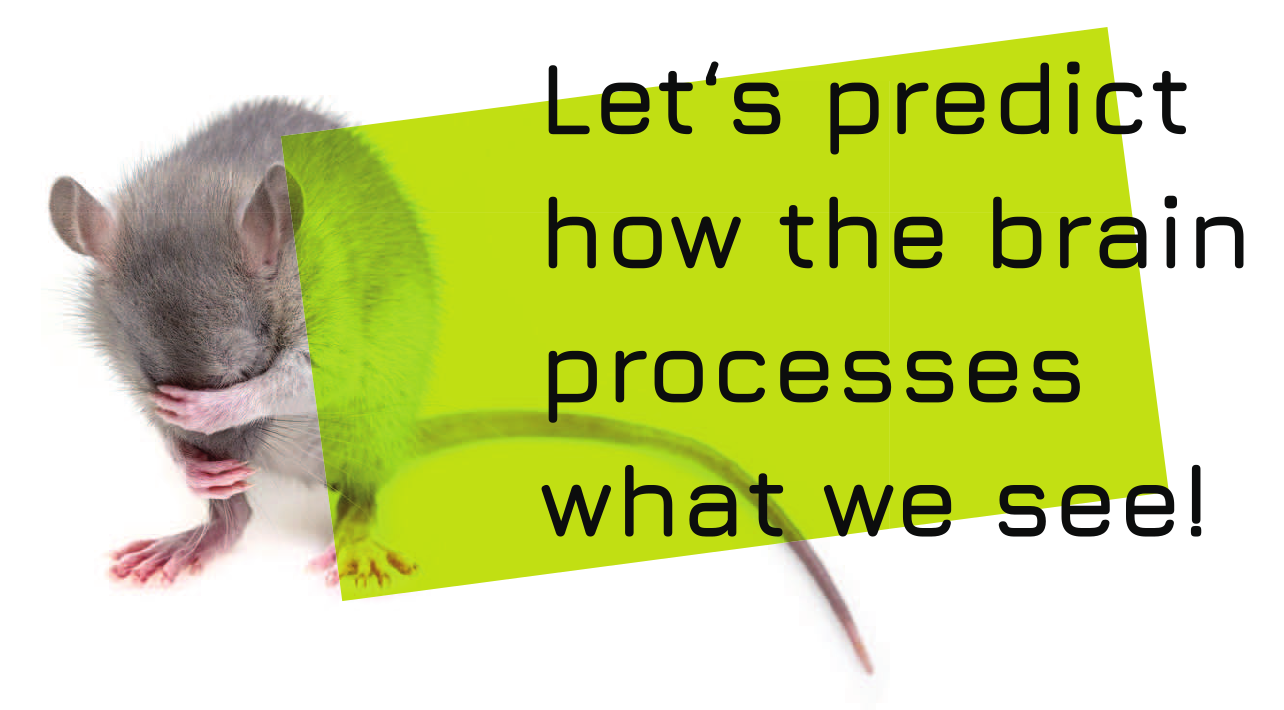
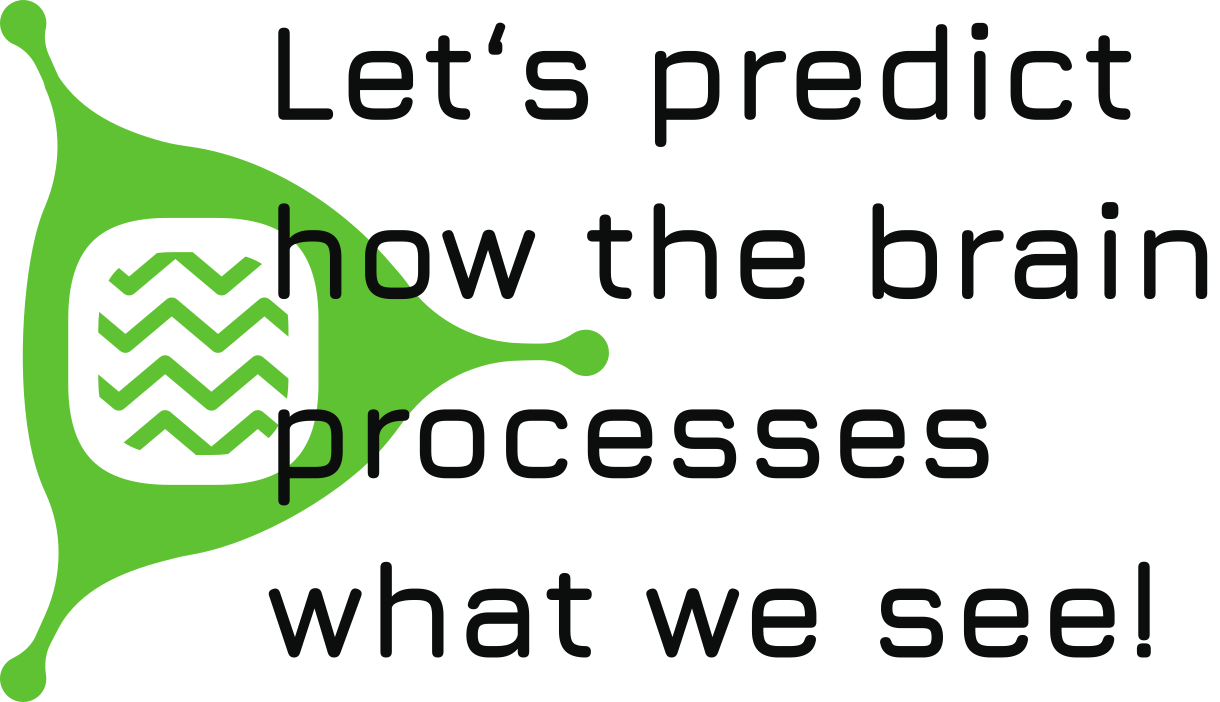
general look and structure of Bärbel's draft

diff --git a/src/templates/pages/home.html b/src/templates/pages/home.html
@@ -5,42 +5,28 @@
 
 {% block content %}
 
-    <!-- Annoucement  -->
-    {% if announcement %}
-    <div style="margin:auto;" class="segment-container ui segment full-width">
-        <div class="ui header">
-            <p>Announcement</p>
-        </div>
-        <div class="container-content">
-            <div class="center aligned column">
-                {{ announcement | safe }}
+    <div class="home-wrap ui grid">
+        <div class="row">
+            <div class="sixteen wide column">
+                <img src="{% static 'img/home_banner.png' %}" alt="Let's predict how the brain processes what we see!"/>
             </div>
         </div>
-    </div>
-    {% endif %}
-
-    <div class="home-wrap">
-        <!-- <front-page-competitions class="segment-container"></front-page-competitions> -->
-         <img src="{% static 'img/home_banner.png' %}" alt="Let's predict how the brain processes what we see!"/>
 
         <!-- Stats section -->
-        <div class="ui three column grid" id="general-stats">
-            <!-- Public Competitions -->
-            <div class="column">
+        <div class="row" id="general-stats">
+            <div class="five wide column">
                 <div class="ui statistic">
                     <div class="value">{{ HOME_PAGE_COUNTERS_INFO.public_competitions }}</div>
                     <div class="label">Competitions</div>
                 </div>
             </div>
-            <!-- Users -->
-            <div class="column">
+            <div class="five wide column">
                 <div class="ui statistic">
                     <div class="value">{{ HOME_PAGE_COUNTERS_INFO.users }}</div>
                     <div class="label">Users</div>
                 </div>
             </div>
-            <!-- Submissions -->
-            <div class="column">
+            <div class="five wide column">
                 <div class="ui statistic">
                     <div class="value">{{ HOME_PAGE_COUNTERS_INFO.submissions }}</div>
                     <div class="label">Submissions</div>
@@ -48,92 +34,55 @@
             </div>
         </div>
 
-        <!-- About Section -->
-        <div id="about-container" class="segment-container ui segment full-width">
-            <div class="ui header">
-                About Sensorium
+        <div class="row">
+            <div class="sixteen wide column">
+                <h2 class="ui header">The Who</h2>
             </div>
-            <div class="container-content">
-                <div class="ui middle stackable grid container">
-                    <div class="eight wide left aligned column">
-                        <div class="row column-bottom-padding">
-                            <h3 class="ui color-header header">The Problem</h3>
-							<strong>Even today’s most advanced models of visual cortex are not able to fully predict the brain’s responses.</strong>
-                            <p>Understanding how the brain processes visual input is a long standing goal in neuroscience. To solve this question in a quantitative, testable, and reproducible way, accurate predictive models of neural population responses to natural stimuli are crucial. However, even today’s most advanced models of visual cortex are only able to account for a fraction of the observed neuronal activity. Furthermore, because there is an abundance of models and metrics, but no widely-used reference dataset, it is challenging to compare models on equal ground. This makes it difficult to determine the current state-of-the-art model.</p>
-							<p>
-								<a href="{% static 'img/sensorium_2023_schematic-01.png' %}" target="_blank">
-									<img src="{% static 'img/sensorium_2023_schematic-01.png' %}"/>
-								</a>
-							</p>
-                        </div>
-                        <div class="row column-bottom-padding">
-                            <div class="ui divider"></div>
-                            <h3 class="ui color-header header">The SENSORIUM 2023 Competition</h3>
-							<strong>Benchmarking the predictive performance of your model on large-scale datasets.</strong>
-                            <p>The SENSORIUM 2023 competition offers a publicly available, large-scale dataset consisting of the activity from over 38,000 neurons from the primary visual cortex of five different mice in response to around 1800 natural scene videos (around 10 seconds). The dataset also includes additional behavioral measurements such as running speed, pupil dilation and eye movements. The performance of predictive models can be automatically evaluated by submitting predicted neural responses to our website which will display the performance of all submissions in a leaderboard for easy comparison.</p>
-							<p>The SENSORIUM 2022 competition approached this issue for static stimulus (pictures) models. This year we are adding a time dimensional component and try to inspire community to establish a benchmark dataset and a model for dynamic stimulus (videos). See more about data in the whitepaper and data section.</p>
-							<strong>Currently, we offer two benchmark tracks</strong>
-							<p>There is a main track and a bonus track. The focus of the main track is to predict the neuronal activity for dynamic stimuli, while the focus of the bonus is to generalize to out of domain (OOD) stimuli.</p>
-							<strong>Main Track</strong>
-							<p>We provide data from 5 mice, more than 38,000 neurons, around 1800 natural scene videos (around 10 seconds), and additionally behavioral activity (pupil center, pupil dilation, and running speed). The goal is to train a networks, which would predict the neuronal activity for the neurons. To see more details about data or metrics see the corresponding section. <i>Please note that this year there is not separate track for behaviour. It is up for the team if they want to use behavioural data or not.</i></p>
-							<strong>Bonus Track</strong>
-							<p>We think that from a biological perspective it is crucial to have not only good performing but also generalizable models. Hence, we establish a bonus track with five out of domain (OOD) stimuli to measure the models’ generalizable capabilities. This track would have one winning team.</p>
-							<strong>Let’s predict how the brain processes what we see!</strong>
-                        </div>
-                    </div>
-                    <!-- News Section -->
-                    <div class="eight wide center aligned column">
-                        <div class="row news-column-bottom-padding">
-                            <h1 class="ui color-header header">News</h1>
-                        </div>
-                        {% for post in news_posts %}
-                        <div class="row news-column-bottom-padding news">
-                            <span class="news-date">{{post.created_when|date:"M d, Y"}}</span>
-                            <div class="news-heading">
-                                {% if post.link %}
-                                    <a href="{{post.link}}" target="_blank"><h3>{{post.title}}</h3></a>
-                                {% else %}
-                                    <h3 class="news-heading-title">{{post.title}}</h3>
-                                {% endif %}
-                            </div>
-                            <div class="news-body">
-                                {{ post.text | safe }}
-                            </div>
-                        </div>
-                        {% endfor %}
-                    </div>
+        </div>
+
+        <div class="row">
+            <div class="eight wide column">
+                <div class="ui container">
+                    <p>We are looking for the best neural predictive model that can predict the activity of thousands of neurons in the primary visual cortex of mice in response to videos.</p>
+                </div>
+            </div>
+            <div class="eight wide column">
+                <div class="ui container">
+                    <img src="{% static 'img/mousy_mascot_tv.png' %}" alt="Mousy Mascot TV" class="ui centered image">
                 </div>
             </div>
         </div>
 
-        <!-- Citation Section -->
-        <!--
-        <div id="cite-container" class="segment-container ui segment full-width">
-            <div class="ui header">
-                Cite Sensorium
+        {% if announcement %}
+            <div class="row">
+                <div class="sixteen wide column">
+                    <h2 class="ui header">The News</h2>
+                </div>
             </div>
-            <div class="row container-content left aligned">
-                <h3 class="ui color-header header">Sensorium 2023</h3>
-                <pre>
-@article{sensorium2023,
-	title = {The {Dynamic} {Sensorium} competition for predicting large-scale mouse visual cortex activity from videos},
-	author = {Turishcheva, Polina and Fahey, Paul G. and Hansel, Laura and Froebe, Rachel and Ponder, Kayla and Vystrčilová, Michaela and Willeke, Konstantin F. and Bashiri, Mohammad and Wang, Eric and Ding, Zhiwei and Tolias, Andreas S. and Sinz, Fabian H. and Ecker, Alexander S.},
-	year = {2024},
-	doi = {<a href="https://doi.org/10.48550/arXiv.2305.19654">10.48550/arXiv.2305.19654</a>},
-	url = {<a href="http://arxiv.org/abs/2305.19654" target="_blank">http://arxiv.org/abs/2305.19654</a>},
-} </pre>
-				<div class="ui divider"></div>
-                <h3 class="ui color-header header">Sensorium 2022</h3>
-                <pre>
-@article{sensorium2022,
-	title = {The {Sensorium} competition on predicting large-scale mouse primary visual cortex activity},
-	author = {Willeke, Konstantin F. and Fahey, Paul G. and Bashiri, Mohammad and Pede, Laura and Burg, Max F. and Blessing, Christoph and Cadena, Santiago A. and Ding, Zhiwei and Lurz, Konstantin-Klemens and Ponder, Kayla and Muhammad, Taliah and Patel, Saumil S. and Ecker, Alexander S. and Tolias, Andreas S. and Sinz, Fabian H.},
-	year = {2022},
-	doi = {<a href="https://doi.org/10.48550/arXiv.2206.08666">10.48550/arXiv.2206.08666</a>},
-	url = {<a href="http://arxiv.org/abs/2206.08666">http://arxiv.org/abs/2206.08666</a>},
-} </pre>
+
+            <div class="row">
+                <div class="sixteen wide column">
+                    {{ announcement | safe }}
+                </div>
             </div>
-        </div>-->
+        {% endif %}
+
+        <div class="row">
+            <div class="eight wide column">
+                <div class="ui container">
+                    <h2 class="ui header">The Problem</h2>
+                    <p style="font-weight: bold">Even today’s most advanced models of visual cortex are not able to fully predict the brain’s responses.</p>
+                    <p>Understanding how the brain processes visual input is a long-standing goal in neuroscience.</p>
+                </div>
+            </div>
+            <div class="eight wide column">
+                <div class="ui container">
+                    <h2 class="ui header">The 2025 Competition</h2>
+                    <p style="font-weight: bold">Benchmarking the predictive performance of your model on large-scale datasets.</p>
+                    <p>The SENSORIUM 2025 competition oﬀers a publicly available, lar-ge-scale dataset consisting of the activity from over 38,000 neurons from the primary visual cortex of ﬁve diﬀerent mice in response to around 1800 natural scene videos (around 10 seconds).</p>
+                </div>
+            </div>
+        </div>
 
     </div>
 {% endblock %}

diff --git a/src/templates/base.html b/src/templates/base.html
@@ -7,7 +7,7 @@
     <meta http-equiv="X-UA-Compatible" content="IE=edge,chrome=1"/>
     <meta name="viewport" content="width=device-width, initial-scale=1.0, maximum-scale=1.0">
     <title>Sensorium</title>
-    <link rel="icon" type="image/ico" href="{% static 'img/favicon.ico' %}"/>
+    <link rel="icon" type="image/ico" href="{% static 'img/favicon.png' %}"/>
 
     <!-- Vendor -->
     <link rel="stylesheet" href="https://cdnjs.cloudflare.com/ajax/libs/semantic-ui/2.4.1/semantic.min.css">
@@ -156,15 +156,20 @@
                     {% endif %}
                 {% endif %}
             </div>
+            <div class="left menu item">
+                <div id="logo_div" class="ui container">
+                    <a href="/">
+                        <img id="jumbo_logo" src="{% static 'img/sensorium_logo_schwarz.png' %}">
+                    </a>
+                </div>
+            </div>
         </div>
-    </div>
-    <div id="logo_div" class="ui text container">
-        <a href="/">
-            <img id="jumbo_logo" src="{% static 'img/sensorium.png' %}">
-        </a>
     </div>
     {% block top_div_extra_content %}{% endblock %}
 </div>
+
+{% block sticky_button %}
+{% endblock %}
 
 <div id="page_wrapper">
     <div id="hamburger_button" class="ui top attached demo menu">
@@ -172,23 +177,26 @@
             <i class="sidebar icon"></i>
         </a>
     </div>
-    <div class="ui bottom attached segment pushable">
-        <div class="ui top sidebar visible menu">
-            <a href="{% url "pages:home" %}" class="item">Problem</a>
-            <a href="{% url "pages:home" %}" class="item">Competition</a>
-            <a href="{% url "pages:home" %}" class="item">Starter Kit</a>
-            <a href="{% url "pages:home" %}" class="item">Results</a>
-            <a href="{% url "pages:home" %}" class="item">About Us</a>
-            <a href="{% url "pages:home" %}" class="item">News</a>
-        </div>
+    <div class="ui bottom attached segment">
+        <div class="ui grid">
+            <div class="four wide column">
+                <div id="sidebar-nav-anchor" class="ui container">
+                </div>
+                <div id="sidebar-menu" class="ui secondary sidebar vertical visible menu left">
+                    <a href="{% url "pages:home" %}" class="item">Problem</a>
+                    <a href="{% url "pages:home" %}" class="item">Competition</a>
+                    <a href="{% url "pages:home" %}" class="item">Starter Kit</a>
+                    <a href="{% url "pages:home" %}" class="item">Results</a>
+                    <a href="{% url "pages:home" %}" class="item">About Us</a>
+                    <a href="{% url "pages:home" %}" class="item">News</a>
+                </div>
+            </div>
 
-        {% block sticky_button %}
-        {% endblock %}
-
-        <div id="page_content" class="ui container grid pusher">
-            <div class="row">
-                {% block content %}
-                {% endblock %}
+            <div id="page_content" class="ui container twelve wide column grid pusher">
+                <div class="row">
+                    {% block content %}
+                    {% endblock %}
+                </div>
             </div>
         </div>
     </div>

diff --git a/src/static/js/ours/init.js b/src/static/js/ours/init.js
@@ -29,7 +29,7 @@ $(document).ready(function () {
     $('#page_wrapper .ui.sidebar')
         .sidebar({
             transition: 'push',
-            context: $('#page_wrapper .bottom.segment')
+            context: $('#page_wrapper #sidebar-nav-anchor')
         })
         .sidebar('attach events', '#hamburger_button .item')
     ;
